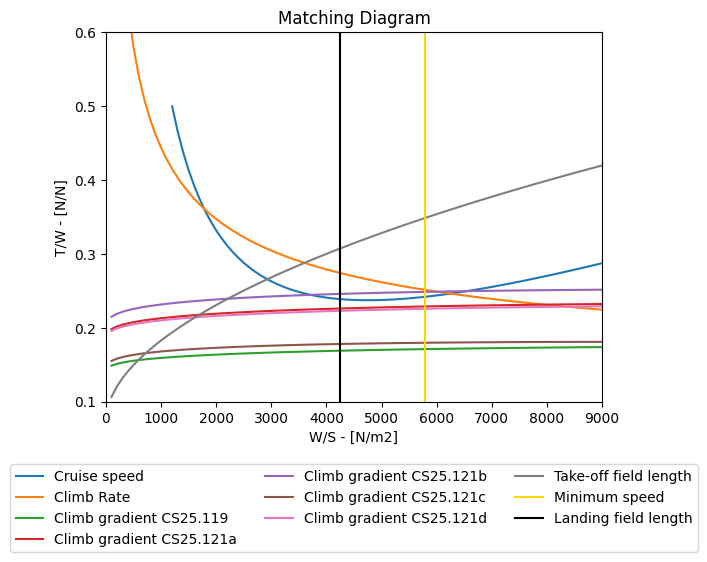
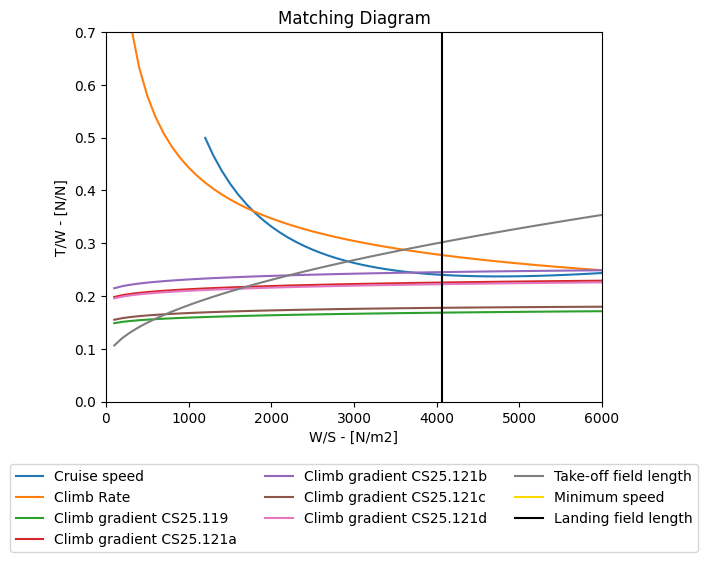
updated values

diff --git a/HLDs.py b/HLDs.py
@@ -10,8 +10,8 @@ end_pos_span_LE = 0.8
 c_f_c_TE = 0.3
 c_f_c_LE = 0.1
 
-sweep, taper, b, c_root, c_tip, c_MAC, dihedral, sweep_LE = Pl.calculate_geometric_parameters_wing(30.46, fv.AR, 0.68, 24.5)
-
+sweep, taper, b, c_root, c_tip, c_MAC, dihedral, sweep_LE = Pl.calculate_geometric_parameters_wing(fv.S_w, fv.AR, 0.68, 24.5)
+print(b)
 sweep_LE = math.radians(sweep_LE)
 
 # trailing edge reference area
@@ -27,6 +27,7 @@ reference_area_TE = (area_1 + area_2 + area_3) * 2
 # leading edge reference area
 x_2 = end_pos_span_LE - start_pos_span_LE  
 half_b = b / 2 
+print (half_b)
 Area1 = x_2 * half_b * math.sin(sweep_LE) * x_2 * half_b / 2  # top triangle
 Area2 = x_2 * half_b * (c_root - (x_2 + start_pos_span_LE) * half_b * math.sin(sweep_LE))  # big rectangle
 Area3 = start_pos_span_LE * half_b * math.sin(sweep_TE) * x_2 * half_b  # small rectangle
@@ -42,6 +43,7 @@ delc_cf_TE = 0.6
 c_prime_TE = c_avg_TE + delc_cf_TE * c_f_c_TE * c_avg_TE
 delta_c_lmax_TE = 1.3 * c_prime_TE / c_avg_TE
 wing_area = (c_root + c_tip) / 2 * b 
+print(wing_area)
 
 DELTA_c_LMAX_TE = 0.9 * delta_c_lmax_TE * reference_area_TE / wing_area * math.cos(sweep_TE)
 

diff --git a/main.py b/main.py
@@ -13,7 +13,7 @@ import dynamic_variables as dv
 thickness_to_chord = 0.15 # assumption 
 AR = 10
 M_cr = 0.68   #this is for requirement, maybe 0.7 for cruise?
-S_w = 30.46
+S_w = 40.48
 
 #for drag calculations the values below are assumed
 S_wet_over_S_w = 5.85
@@ -73,8 +73,8 @@ dx.plot(fv.wing_loading, loads_climb_grad_121d, label="Climb gradient CS25.121d"
 dx.plot(fv.wing_loading, loads_to_field, label="Take-off field length")
 dx.axvline(loads_minimum_speed, color = "gold", label = "Minimum speed")
 dx.axvline(loads_landing_field_length, color = "black", label = "Landing field length")
-dx.set_xlim([0, 9000])
-dx.set_ylim([0.1, 0.6])
+dx.set_xlim([0, 6000])
+dx.set_ylim([0, 0.7])
 dx.set_xlabel("W/S - [N/m2]")
 dx.set_ylabel("T/W - [N/N]")
 dx.set_title("Matching Diagram")

diff --git a/fixed_values.py b/fixed_values.py
@@ -15,7 +15,7 @@ R_div = 277800
 #______important for drag calculations_________
 S_wet_over_S_w = 5.85
 C_f = 0.004
-S_w = 30.46
+S_w = 40.48
 S_wet = S_w * 5.85
 psi = 0.0075
 phi = 0.97
@@ -34,9 +34,9 @@ beta = 0.95
 
 #________Matching diagram: Landing and take-off distance_____
 mass_fraction_landing = 0.7
-landing_field = 950
+landing_field = 800
 density_landing = 1.165
-C_L_max_landing = 2.3
+C_L_max_landing = 2.61
 density_takeoff = 1.225225
 CL_takeoff = 1.6370864382454
 temp_takeoff = 288.18

diff --git a/dynamic_variables.py b/dynamic_variables.py
@@ -1,7 +1,7 @@
 L_over_D_max = 16.27
 
 
-designws = 4030
-designtw = 0.3
+designws = 3800
+designtw = 0.35
 
-S_w = 30.46
+S_w = 40.48

diff --git a/master_range_mass.py b/master_range_mass.py
@@ -41,3 +41,4 @@ else: print("Ferry Range: FAIL")
 
 W_to = m_MTO * 9.81
 new_S_w = W_to/designws
+print(new_S_w)
